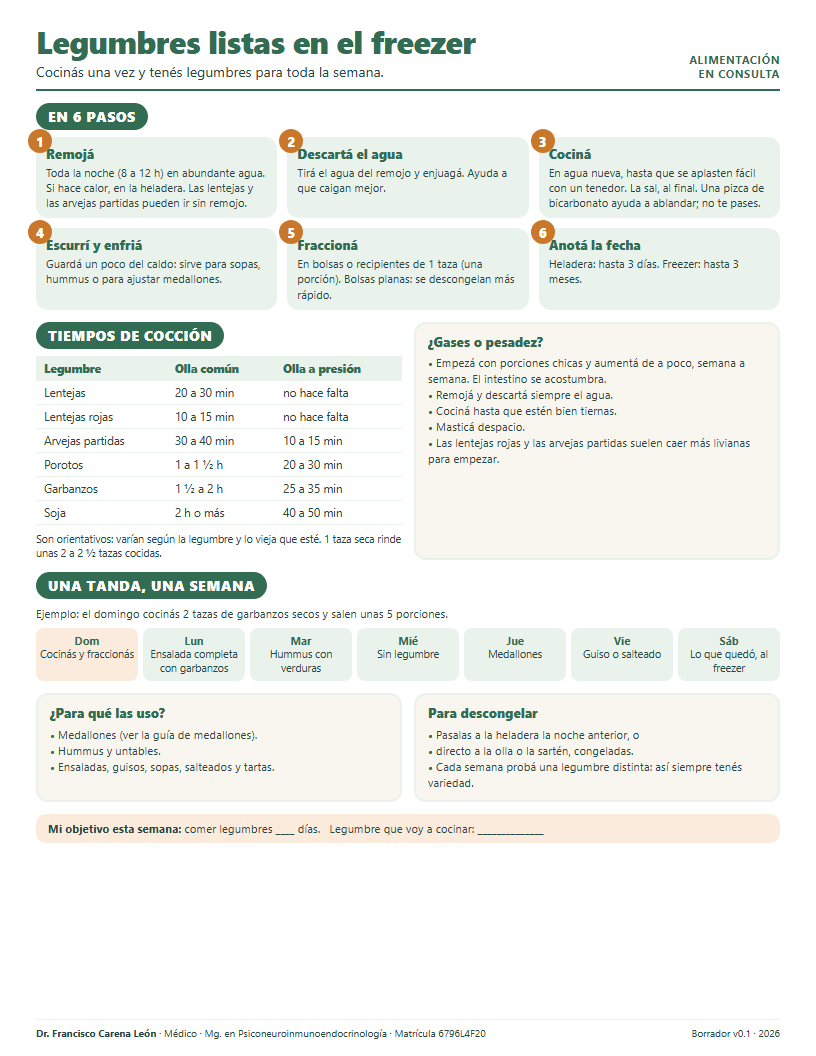
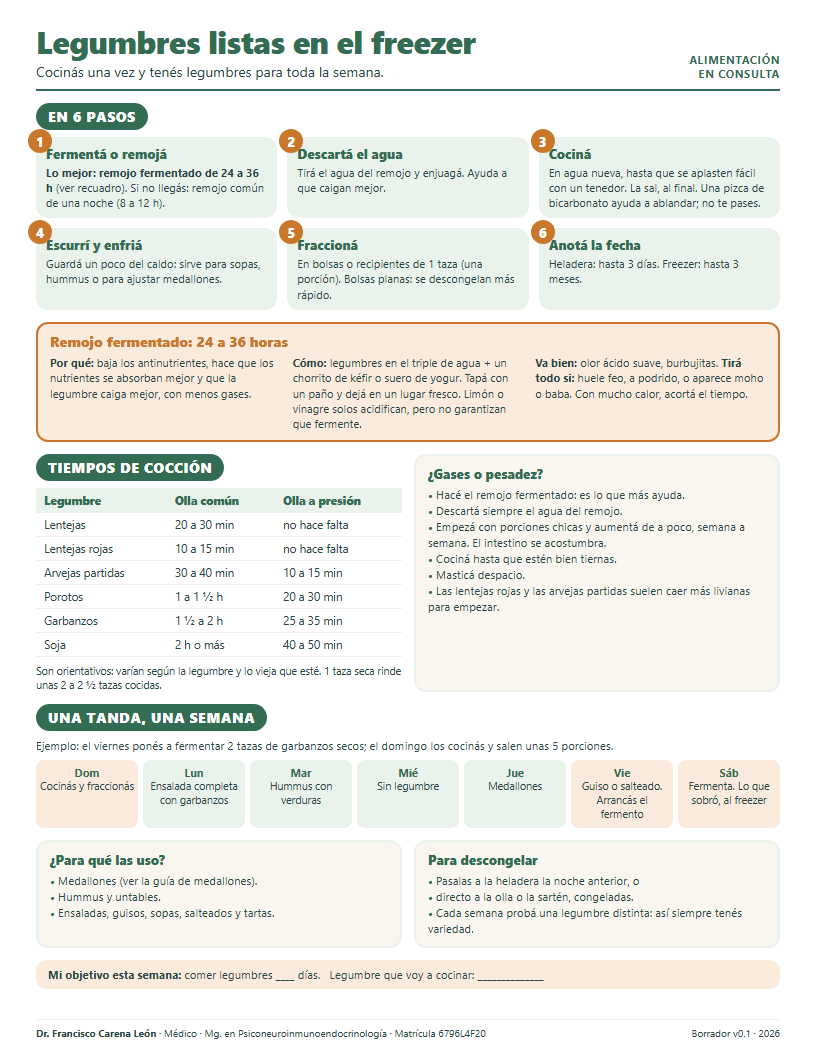
K2 legumbres: reponer el remojo fermentado de 24-36 h
Se había omitido una indicación de Francisco al derivar la hoja de la guía de medallones.

Claude-Session: https://claude.ai/code/session_011zrZY9jQxrkkKfCXdi1ZVs

diff --git a/03_EN_TRABAJO/kit_consulta_v0/K2_legumbres_v0.1.html b/03_EN_TRABAJO/kit_consulta_v0/K2_legumbres_v0.1.html
@@ -30,6 +30,9 @@ td{padding:4px 8px;border-bottom:1px solid var(--l)}
 .week div{background:var(--l);border-radius:8px;padding:6px 3px;line-height:1.3}
 .week b{display:block;color:var(--g);font-size:11px}
 .week .hot{background:var(--lo)}
+.ferm{background:var(--lo);border:2px solid var(--o);border-radius:12px;padding:8px 12px}
+.ferm h3{font-size:14px;color:var(--o);font-weight:800;margin-bottom:4px}
+.fcols{display:grid;grid-template-columns:1fr 1fr 1fr;gap:12px;font-size:11.2px;line-height:1.38}
 .note{background:var(--lo);border-radius:10px;padding:7px 12px;font-size:11.4px}
 footer{margin-top:auto;border-top:1px solid var(--l);padding-top:6px;font-size:10px;display:flex;justify-content:space-between}
 </style></head><body>
@@ -41,12 +44,21 @@ footer{margin-top:auto;border-top:1px solid var(--l);padding-top:6px;font-size:1
 <div class="sec">
   <div><h2>EN 6 PASOS</h2></div>
   <div class="steps">
-    <div class="step"><span class="n">1</span><h4>Remojá</h4><p>Toda la noche (8 a 12 h) en abundante agua. Si hace calor, en la heladera. Las lentejas y las arvejas partidas pueden ir sin remojo.</p></div>
+    <div class="step"><span class="n">1</span><h4>Fermentá o remojá</h4><p><b>Lo mejor: remojo fermentado de 24 a 36 h</b> (ver recuadro). Si no llegás: remojo común de una noche (8 a 12 h).</p></div>
     <div class="step"><span class="n">2</span><h4>Descartá el agua</h4><p>Tirá el agua del remojo y enjuagá. Ayuda a que caigan mejor.</p></div>
     <div class="step"><span class="n">3</span><h4>Cociná</h4><p>En agua nueva, hasta que se aplasten fácil con un tenedor. La sal, al final. Una pizca de bicarbonato ayuda a ablandar; no te pases.</p></div>
     <div class="step"><span class="n">4</span><h4>Escurrí y enfriá</h4><p>Guardá un poco del caldo: sirve para sopas, hummus o para ajustar medallones.</p></div>
     <div class="step"><span class="n">5</span><h4>Fraccioná</h4><p>En bolsas o recipientes de 1 taza (una porción). Bolsas planas: se descongelan más rápido.</p></div>
     <div class="step"><span class="n">6</span><h4>Anotá la fecha</h4><p>Heladera: hasta 3 días. Freezer: hasta 3 meses.</p></div>
+  </div>
+</div>
+
+<div class="ferm">
+  <h3>Remojo fermentado: 24 a 36 horas</h3>
+  <div class="fcols">
+    <p><b>Por qué:</b> baja los antinutrientes, hace que los nutrientes se absorban mejor y que la legumbre caiga mejor, con menos gases.</p>
+    <p><b>Cómo:</b> legumbres en el triple de agua + un chorrito de kéfir o suero de yogur. Tapá con un paño y dejá en un lugar fresco. Limón o vinagre solos acidifican, pero no garantizan que fermente.</p>
+    <p><b>Va bien:</b> olor ácido suave, burbujitas. <b>Tirá todo si:</b> huele feo, a podrido, o aparece moho o baba. Con mucho calor, acortá el tiempo.</p>
   </div>
 </div>
 
@@ -67,8 +79,9 @@ footer{margin-top:auto;border-top:1px solid var(--l);padding-top:6px;font-size:1
   <div class="box">
     <h3>¿Gases o pesadez?</h3>
     <ul>
+      <li>Hacé el remojo fermentado: es lo que más ayuda.</li>
+      <li>Descartá siempre el agua del remojo.</li>
       <li>Empezá con porciones chicas y aumentá de a poco, semana a semana. El intestino se acostumbra.</li>
-      <li>Remojá y descartá siempre el agua.</li>
       <li>Cociná hasta que estén bien tiernas.</li>
       <li>Masticá despacio.</li>
       <li>Las lentejas rojas y las arvejas partidas suelen caer más livianas para empezar.</li>
@@ -78,15 +91,15 @@ footer{margin-top:auto;border-top:1px solid var(--l);padding-top:6px;font-size:1
 
 <div class="sec">
   <div><h2>UNA TANDA, UNA SEMANA</h2></div>
-  <p style="font-size:11.4px">Ejemplo: el domingo cocinás 2 tazas de garbanzos secos y salen unas 5 porciones.</p>
+  <p style="font-size:11.4px">Ejemplo: el viernes ponés a fermentar 2 tazas de garbanzos secos; el domingo los cocinás y salen unas 5 porciones.</p>
   <div class="week">
     <div class="hot"><b>Dom</b>Cocinás y fraccionás</div>
     <div><b>Lun</b>Ensalada completa con garbanzos</div>
     <div><b>Mar</b>Hummus con verduras</div>
     <div><b>Mié</b>Sin legumbre</div>
     <div><b>Jue</b>Medallones</div>
-    <div><b>Vie</b>Guiso o salteado</div>
-    <div><b>Sáb</b>Lo que quedó, al freezer</div>
+    <div class="hot"><b>Vie</b>Guiso o salteado. Arrancás el fermento</div>
+    <div class="hot"><b>Sáb</b>Fermenta. Lo que sobró, al freezer</div>
   </div>
 </div>
 

diff --git a/03_EN_TRABAJO/INDICE_MAESTRO_v0.1.md b/03_EN_TRABAJO/INDICE_MAESTRO_v0.1.md
@@ -32,7 +32,7 @@ Una indicación `IF` con respaldo `E2` o `E3` se usa de forma individualizada. N
 |---|---|---|---|---|---|---|---|
 | K1 | Medallones vegetales | B. Preparar | N1 + N2 | General | EN USO | E2 (calidad proteica) | `Guia_practica_medallones_vegetales_v0.2.docx`, `Guia_ampliada_...v0.2.docx`, `infografia_medallones/` |
 | K1-F | Fórmula del medallón (fuente única) | B. Preparar | Conocimiento | General | BORRADOR | E2 | `conocimiento/FORMULA_MEDALLON_v0.1.md` |
-| K2 | Legumbres: cocinar una vez, comer toda la semana | A. Conocer + C. Organizar | N1 | General | EN USO | ? (pendiente de referencias) | `kit_consulta_v0/K2_legumbres_v0.1.html` |
+| K2 | Legumbres: cocinar una vez, comer toda la semana | A. Conocer + C. Organizar | N1 | General | EN USO | IF + E2 (remojo fermentado 24-36 h: menos antinutrientes y gases); resto ? | `kit_consulta_v0/K2_legumbres_v0.1.html` |
 | K3 | Merencenas: la última comida, más temprano | Merencenas | N1 (paciente) + N3 (profesional) | Digestivo; diabetes/prediabetes; obesidad | EN USO | IF + E2 (dispepsia, glucemia) + E3 (desayuno tardío) | `kit_consulta_v0/K3_merencenas_v0.1.html`, `kit_consulta_v0/K3_merencenas_ficha_profesional_v0.1.md` |
 
 ## 2. A. Conocer los alimentos

diff --git a/tasks/lessons.md b/tasks/lessons.md
@@ -8,3 +8,7 @@
 ## 2026-10-30 - Material usable antes que perfecto
 - Regla: cada etapa termina con al menos una pieza "lista para consulta" que Francisco usa ya. "Lista para consulta" no es "version final": se mejora usandola.
 - Antes de abrir un frente nuevo, preguntar que pieza ya esta en uso.
+
+## 2026-10-30 - Se perdio el remojo fermentado al hacer la hoja de legumbres
+- Error: al armar K2 desde la guia de medallones se omitio el remojo fermentado de 24-36 h, indicacion de Francisco (vision sec. 3 y guia v0.2).
+- Regla: una pieza derivada lleva TODAS las indicaciones de Francisco de su fuente. Antes de cerrar, listar las indicaciones de la fuente y tildarlas una por una en la pieza nueva. Omitir = sacar: no se hace sin hablarlo antes.

diff --git a/00_CONTEXTO/REGISTRO_DE_TRABAJO.md b/00_CONTEXTO/REGISTRO_DE_TRABAJO.md
@@ -99,3 +99,6 @@ Para que cualquier agente continúe sin empezar de cero. Leer después de `00_LE
 - Decisiones D1-D5 del plan v0.2.
 - Verificar la bibliografía † de la ficha de merencenas.
 - Etapa 2: cargar en el bot las preguntas semanales del kit.
+
+## 2026-10-30 (parte 3) - Corrección K2 legumbres
+- Se había omitido el remojo fermentado de 24-36 h (indicación de Francisco). Repuesto como primera opción, con recuadro propio (por qué, cómo, señales de que va bien o hay que tirar) y en la semana de ejemplo (fermenta viernes, cocina domingo). Índice: K2 = IF + E2.
